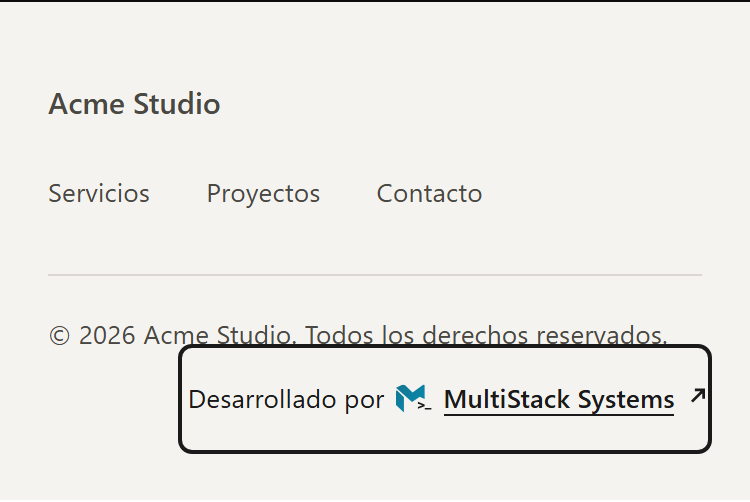
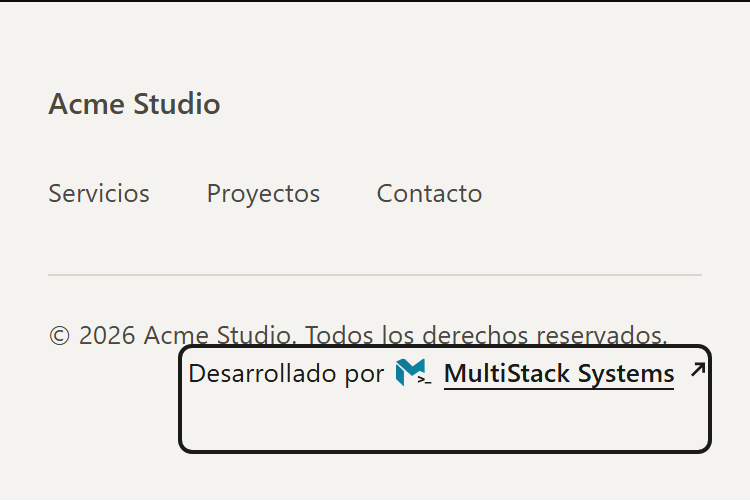
fix(standards): espacio en el texto del crédito y área de toque sin solapar el copyright (#53)
* fix(standards): add the missing space in the footer credit's link text

The visible gap came from the flex gap only, so the link's text content read
"Desarrollado porMultiStack Systems" (copy and paste, reader mode, anchor text).
The layout does not change: same box and same positions.

The test now checks the exact text content and that the accessible name starts
with it. The standard also notes that the touch padding adds height.

* fix(standards): keep the credit's tap area off the copyright and survive enlarged text

Three fixes found on the first site that carries the credit, verified there in
Chromium, Firefox and WebKit before going live:

- Touch: the 44px tap area now grows downwards only, so tapping the line above
  (the copyright) no longer opens the link.
- The isotype no longer makes the credit's line taller than a line of text.
- The standard now tells sites to switch between "beside" and "below" the
  copyright with a container query in ch. A breakpoint in px or em lets the
  credit run into its neighbour when the user sets a minimum font size, because
  the text grows and em does not.

Reference captures regenerated; browsers tested and the checklist updated.

---------

Changed region(s): [[0.2453, 0.7171, 0.9507, 0.8367], [0.92, 0.7171, 0.9507, 0.747]]

diff --git a/snippets/credito-multistack/credito.html b/snippets/credito-multistack/credito.html
@@ -49,7 +49,7 @@ body{margin:0;background:#fff;color:#1c1c1b;font:400 13px/1.45 system-ui,-apple-
         data-align="start|center|end" lo pone en su propia línea; sin data-align queda en línea donde lo coloques.
      Un solo crédito por página: los ids ms-credit-m y ms-credit-g son fijos. -->
 <a class="ms-credit" href="https://www.multistacksystems.com/?utm_source=acme&amp;utm_medium=referral&amp;utm_campaign=credito-footer" target="_blank" rel="noopener nofollow"
-   aria-label="Desarrollado por MultiStack Systems (se abre en una pestaña nueva)" data-align="start">Desarrollado por<svg viewBox="0 0 888.5 703.2" aria-hidden="true" focusable="false"><defs><linearGradient id="ms-credit-g" x2="1" y2="1"><stop/><stop offset="1"/></linearGradient><path id="ms-credit-m" d="m719.3 361.3-200.2-86.9.1-.1L718.5 64.6zM158.7 5.9Q171.6.2 185.1.2c16.4 0 32.6 6.3 44.8 18.2l269.8 263c9 8.8 9.8 23 1.8 32.7l-85.3 103.7c-8.8 10.6-24.6 11.8-34.9 2.6L0 77.5zm523.6-1.5Q688.8 0 695.7 0c11.8 0 22.8 9.3 22.8 22.8v200l-305 205.5c-7.9 5.3-18.4 4.6-25.5-1.7L261 312.2zM0 162.1c0-10 8.2-16.6 16.7-16.6 4 0 8.1 1.4 11.4 4.7l171.2 165.1v387.9L0 509.7v-68.1z"/></defs><use href="#ms-credit-m"/><use href="#ms-credit-m" fill="url(#ms-credit-g)"/><path d="M719.3 497.1v46L550.7 608v-45.6L666 520.3l-115.3-42.5v-45.9z"/><path class="ms-credit__cursor" d="M888.5 625.6H723.2v-38.3h165.3z"/></svg><b>MultiStack Systems</b><svg viewBox="0 0 8 8" aria-hidden="true" focusable="false"><path d="M1 7 7 1M2.5 1H7v4.5"/></svg></a>
+   aria-label="Desarrollado por MultiStack Systems (se abre en una pestaña nueva)" data-align="start">Desarrollado por <svg viewBox="0 0 888.5 703.2" aria-hidden="true" focusable="false"><defs><linearGradient id="ms-credit-g" x2="1" y2="1"><stop/><stop offset="1"/></linearGradient><path id="ms-credit-m" d="m719.3 361.3-200.2-86.9.1-.1L718.5 64.6zM158.7 5.9Q171.6.2 185.1.2c16.4 0 32.6 6.3 44.8 18.2l269.8 263c9 8.8 9.8 23 1.8 32.7l-85.3 103.7c-8.8 10.6-24.6 11.8-34.9 2.6L0 77.5zm523.6-1.5Q688.8 0 695.7 0c11.8 0 22.8 9.3 22.8 22.8v200l-305 205.5c-7.9 5.3-18.4 4.6-25.5-1.7L261 312.2zM0 162.1c0-10 8.2-16.6 16.7-16.6 4 0 8.1 1.4 11.4 4.7l171.2 165.1v387.9L0 509.7v-68.1z"/></defs><use href="#ms-credit-m"/><use href="#ms-credit-m" fill="url(#ms-credit-g)"/><path d="M719.3 497.1v46L550.7 608v-45.6L666 520.3l-115.3-42.5v-45.9z"/><path class="ms-credit__cursor" d="M888.5 625.6H723.2v-38.3h165.3z"/></svg><b>MultiStack Systems</b><svg viewBox="0 0 8 8" aria-hidden="true" focusable="false"><path d="M1 7 7 1M2.5 1H7v4.5"/></svg></a>
 <!-- ===== CRÉDITO MULTISTACK: FIN ===== -->
 </div>
 </div>
@@ -65,7 +65,7 @@ body{margin:0;background:#fff;color:#1c1c1b;font:400 13px/1.45 system-ui,-apple-
 <p>© 2026 Acme Studio. Todos los derechos reservados.</p>
 <!-- Mismo bloque con tono claro y alineado al final. Los ids llevan el sufijo -2 solo porque esta demo tiene dos créditos. -->
 <a class="ms-credit" href="https://www.multistacksystems.com/?utm_source=acme&amp;utm_medium=referral&amp;utm_campaign=credito-footer" target="_blank" rel="noopener nofollow"
-   aria-label="Desarrollado por MultiStack Systems (se abre en una pestaña nueva)" data-tone="light" data-align="end">Desarrollado por<svg viewBox="0 0 888.5 703.2" aria-hidden="true" focusable="false"><defs><linearGradient id="ms-credit-g-2" x2="1" y2="1"><stop/><stop offset="1"/></linearGradient><path id="ms-credit-m-2" d="m719.3 361.3-200.2-86.9.1-.1L718.5 64.6zM158.7 5.9Q171.6.2 185.1.2c16.4 0 32.6 6.3 44.8 18.2l269.8 263c9 8.8 9.8 23 1.8 32.7l-85.3 103.7c-8.8 10.6-24.6 11.8-34.9 2.6L0 77.5zm523.6-1.5Q688.8 0 695.7 0c11.8 0 22.8 9.3 22.8 22.8v200l-305 205.5c-7.9 5.3-18.4 4.6-25.5-1.7L261 312.2zM0 162.1c0-10 8.2-16.6 16.7-16.6 4 0 8.1 1.4 11.4 4.7l171.2 165.1v387.9L0 509.7v-68.1z"/></defs><use href="#ms-credit-m-2"/><use href="#ms-credit-m-2" fill="url(#ms-credit-g-2)"/><path d="M719.3 497.1v46L550.7 608v-45.6L666 520.3l-115.3-42.5v-45.9z"/><path class="ms-credit__cursor" d="M888.5 625.6H723.2v-38.3h165.3z"/></svg><b>MultiStack Systems</b><svg viewBox="0 0 8 8" aria-hidden="true" focusable="false"><path d="M1 7 7 1M2.5 1H7v4.5"/></svg></a>
+   aria-label="Desarrollado por MultiStack Systems (se abre en una pestaña nueva)" data-tone="light" data-align="end">Desarrollado por <svg viewBox="0 0 888.5 703.2" aria-hidden="true" focusable="false"><defs><linearGradient id="ms-credit-g-2" x2="1" y2="1"><stop/><stop offset="1"/></linearGradient><path id="ms-credit-m-2" d="m719.3 361.3-200.2-86.9.1-.1L718.5 64.6zM158.7 5.9Q171.6.2 185.1.2c16.4 0 32.6 6.3 44.8 18.2l269.8 263c9 8.8 9.8 23 1.8 32.7l-85.3 103.7c-8.8 10.6-24.6 11.8-34.9 2.6L0 77.5zm523.6-1.5Q688.8 0 695.7 0c11.8 0 22.8 9.3 22.8 22.8v200l-305 205.5c-7.9 5.3-18.4 4.6-25.5-1.7L261 312.2zM0 162.1c0-10 8.2-16.6 16.7-16.6 4 0 8.1 1.4 11.4 4.7l171.2 165.1v387.9L0 509.7v-68.1z"/></defs><use href="#ms-credit-m-2"/><use href="#ms-credit-m-2" fill="url(#ms-credit-g-2)"/><path d="M719.3 497.1v46L550.7 608v-45.6L666 520.3l-115.3-42.5v-45.9z"/><path class="ms-credit__cursor" d="M888.5 625.6H723.2v-38.3h165.3z"/></svg><b>MultiStack Systems</b><svg viewBox="0 0 8 8" aria-hidden="true" focusable="false"><path d="M1 7 7 1M2.5 1H7v4.5"/></svg></a>
 </div>
 </div>
 </footer>

diff --git a/snippets/credito-multistack/credito.css b/snippets/credito-multistack/credito.css
@@ -9,7 +9,8 @@ white-space:nowrap;opacity:var(--ms-credit-opacity,.7)}
 .ms-credit[data-align=center]{margin-inline:auto}
 .ms-credit[data-align=end]{margin-inline-start:auto}
 .ms-credit>svg{flex:none}
-.ms-credit>svg:first-of-type{font-size:var(--ms-credit-mark,14px);height:1em;width:1.2635em;transform:translateY(.165em);fill:currentColor}
+/* El margen negativo evita que el isotipo, más alto que el texto, agrande la línea: el crédito mide lo mismo que una línea de texto. */
+.ms-credit>svg:first-of-type{font-size:var(--ms-credit-mark,14px);height:1em;width:1.2635em;margin-top:-.3em;transform:translateY(.165em);fill:currentColor}
 .ms-credit>svg:last-of-type{width:.6em;height:.6em;fill:none;stroke:currentColor;stroke-width:1.4}
 .ms-credit b{font-weight:600;line-height:1.2;padding-bottom:.12em;margin-bottom:-.12em;
 background:linear-gradient(currentColor,currentColor) 0 100%/calc(100%*var(--ms-credit-s)) 1px no-repeat}
@@ -21,8 +22,9 @@ background:linear-gradient(currentColor,currentColor) 0 100%/calc(100%*var(--ms-
 /* Estado activo: --ms-credit-s pasa a 1 y las piezas internas reaccionan. */
 .ms-credit:focus-visible{outline:2px solid;outline-offset:3px;border-radius:2px;opacity:1;--ms-credit-s:1}
 @media (hover:hover) and (pointer:fine){.ms-credit:hover{opacity:1;--ms-credit-s:1}}
-/* Táctil: al menos 44px de alto sea cual sea el interlineado del sitio (13px es el valor para navegadores sin la unidad lh). */
-@media (pointer:coarse){.ms-credit{padding-block:13px;padding-block:max(13px,(44px - 1lh)/2)}}
+/* Táctil: al menos 44px de alto para tocar. El área crece solo hacia abajo, para no tapar la línea de arriba (el copyright).
+   26px es el valor para navegadores sin la unidad lh. */
+@media (pointer:coarse){.ms-credit{padding-bottom:26px;padding-bottom:max(26px,44px - 1lh)}}
 /* Con reduce quedan solo el color y la opacidad; el subrayado aparece de golpe. */
 @media (prefers-reduced-motion:reduce){.ms-credit b{transition:none}}
 @media (prefers-reduced-motion:no-preference){

diff --git a/snippets/credito-multistack/DevCredit.module.css b/snippets/credito-multistack/DevCredit.module.css
@@ -9,7 +9,8 @@ white-space:nowrap;opacity:var(--ms-credit-opacity,.7)}
 .credit[data-align=center]{margin-inline:auto}
 .credit[data-align=end]{margin-inline-start:auto}
 .credit>svg{flex:none}
-.credit>svg:first-of-type{font-size:var(--ms-credit-mark,14px);height:1em;width:1.2635em;transform:translateY(.165em);fill:currentColor}
+/* El margen negativo evita que el isotipo, más alto que el texto, agrande la línea: el crédito mide lo mismo que una línea de texto. */
+.credit>svg:first-of-type{font-size:var(--ms-credit-mark,14px);height:1em;width:1.2635em;margin-top:-.3em;transform:translateY(.165em);fill:currentColor}
 .credit>svg:last-of-type{width:.6em;height:.6em;fill:none;stroke:currentColor;stroke-width:1.4}
 .credit b{font-weight:600;line-height:1.2;padding-bottom:.12em;margin-bottom:-.12em;
 background:linear-gradient(currentColor,currentColor) 0 100%/calc(100%*var(--ms-credit-s)) 1px no-repeat}
@@ -21,8 +22,9 @@ background:linear-gradient(currentColor,currentColor) 0 100%/calc(100%*var(--ms-
 /* Estado activo: --ms-credit-s pasa a 1 y las piezas internas reaccionan. */
 .credit:focus-visible{outline:2px solid;outline-offset:3px;border-radius:2px;opacity:1;--ms-credit-s:1}
 @media (hover:hover) and (pointer:fine){.credit:hover{opacity:1;--ms-credit-s:1}}
-/* Táctil: al menos 44px de alto sea cual sea el interlineado del sitio (13px es el valor para navegadores sin la unidad lh). */
-@media (pointer:coarse){.credit{padding-block:13px;padding-block:max(13px,(44px - 1lh)/2)}}
+/* Táctil: al menos 44px de alto para tocar. El área crece solo hacia abajo, para no tapar la línea de arriba (el copyright).
+   26px es el valor para navegadores sin la unidad lh. */
+@media (pointer:coarse){.credit{padding-bottom:26px;padding-bottom:max(26px,44px - 1lh)}}
 /* Con reduce quedan solo el color y la opacidad; el subrayado aparece de golpe. */
 @media (prefers-reduced-motion:reduce){.credit b{transition:none}}
 @media (prefers-reduced-motion:no-preference){

diff --git a/src/test/dev-credit.test.tsx b/src/test/dev-credit.test.tsx
@@ -39,8 +39,10 @@ describe("DevCredit · enlace", () => {
 describe("DevCredit · accesibilidad", () => {
   it("el texto visible es solo la marca y abre el nombre accesible", () => {
     render(<DevCredit clientSlug="acme" />);
-    expect(link()).toHaveTextContent(/^Desarrollado por\s*MultiStack Systems$/);
-    expect(NAME.startsWith("Desarrollado por MultiStack Systems")).toBe(true);
+    // textContent, no toHaveTextContent: el espacio entre «por» y la marca tiene que existir en el DOM
+    // (es lo que se copia, lo que lee el modo lectura y el texto ancla del enlace).
+    expect(link().textContent).toBe("Desarrollado por MultiStack Systems");
+    expect(link().getAttribute("aria-label")?.startsWith(link().textContent ?? "")).toBe(true);
   });
 
   it("isotipo y flecha quedan ocultos a los lectores de pantalla y fuera del orden de foco", () => {

diff --git a/snippets/credito-multistack/DevCredit.tsx b/snippets/credito-multistack/DevCredit.tsx
@@ -26,7 +26,7 @@ export function DevCredit({ clientSlug, align, tone = 'auto', className }: DevCr
       data-align={align}
       data-tone={tone === 'auto' ? undefined : tone}
     >
-      Desarrollado por
+      Desarrollado por{' '}
       <svg viewBox="0 0 888.5 703.2" aria-hidden="true" focusable="false">
         <defs>
           <linearGradient id="ms-credit-g" x2="1" y2="1">

diff --git a/docs/standards/CREDITO-MULTISTACK.md b/docs/standards/CREDITO-MULTISTACK.md
@@ -67,6 +67,16 @@ En la barra inferior del footer, junto al copyright.
 
 Cuidado con las barras que reparten con `justify-content: space-between` o con grid: añadir un hijo, o ensanchar el primero, mueve a los demás. Ancla entonces el crédito al copyright fuera del flujo (así el copyright conserva su ancho) o bájalo a su propia línea sin ensanchar a ningún hermano. La técnica depende del footer; el criterio no.
 
+**Texto agrandado.** Decide «al lado o debajo» con una medida que siga el tamaño real del texto. Un punto de corte en px de ventana no sirve: con tamaño mínimo de fuente o con zoom solo de texto el crédito crece y se monta sobre lo que tenga al lado. Tampoco sirve `em`: con tamaño mínimo de fuente el texto se dibuja más grande y `em` no cambia (medido en Chromium y en Firefox). `ch` sí sigue al texto en los dos casos. El patrón es una container query sobre la barra, medida en `ch`:
+
+```css
+.pie__barra { container-type: inline-size; }
+/* Por defecto, el crédito va en su propia línea. Al lado, solo si la barra mide N ch o más. */
+@container (min-width: 156ch) { .pie__credito { /* al lado del copyright */ } }
+```
+
+N se mide en cada sitio: el ancho de la barra, en `ch`, desde el que el crédito cabe al lado con aire. Así, con el texto agrandado el crédito baja a su propia línea en vez de solaparse. Donde no hay container queries se queda en su propia línea, que es el caso seguro.
+
 Revisa también los selectores del cliente que alcanzan a cualquier enlace del pie (`footer a`, un `a::after` con subrayado, colores de hover, `position`): neutralízalos solo para el crédito, sin cambiarlos para los demás enlaces.
 
 ## 5. Diseño
@@ -75,7 +85,7 @@ Revisa también los selectores del cliente que alcanzan a cualquier enlace del p
 
 - Tipografía heredada (`font: inherit`) y tamaño igual al del copyright: el componente no fija tamaño, toma el del contenedor.
 - Color del texto del contenedor (o el de `tone`) con **opacidad 0,7** sobre todo el enlace. «MultiStack Systems» en peso 600.
-- Isotipo monocromo (`currentColor`) de **14 px** de alto; el ancho sale de su proporción (888,5 × 703,2). Ajuste óptico de 0,165 em hacia abajo para alinearlo con el texto.
+- Isotipo monocromo (`currentColor`) de **14 px** de alto; el ancho sale de su proporción (888,5 × 703,2). Ajuste óptico de 0,165 em hacia abajo para alinearlo con el texto. Un margen superior negativo evita que agrande la línea: el crédito mide lo mismo que una línea de texto.
 - Flecha ↗ de 0,6 em, trazo de 1,4 en `currentColor`. Separación entre piezas de 0,45 em; el enlace no se parte (`white-space: nowrap`).
 - Sin animación, badge, fondo, borde ni sombra.
 
@@ -124,7 +134,7 @@ Las políticas de spam de Google incluyen entre sus ejemplos de spam de enlaces 
 - **Nombre accesible:** `aria-label="Desarrollado por MultiStack Systems (se abre en una pestaña nueva)"`. Empieza por el texto visible y avisa de la pestaña nueva.
 - **SVG ocultos:** isotipo y flecha llevan `aria-hidden="true"` y `focusable="false"`, sin `<title>`.
 - **Foco visible:** en `:focus-visible` hay un contorno de 2 px, separado 3 px, con esquinas de 2 px y del color del texto (`currentColor`), a opacidad 1. No uses `outline: none`.
-- **Área de toque:** con `(pointer: coarse)` el enlace mide al menos 44 px de alto sin cambiar el tamaño del texto: el padding vertical es el mayor entre 13 px por lado y lo que falte para llegar a 44 px según el interlineado heredado (unidad `lh`). En navegadores sin `lh` se quedan los 13 px fijos, que con interlineados por debajo de 1,4 no llegan a 44. Comprueba el alto real y que no se solape con otro enlace.
+- **Área de toque:** con `(pointer: coarse)` el enlace mide al menos 44 px de alto sin cambiar el tamaño del texto. El área crece **solo hacia abajo** (`padding-bottom: max(26px, 44px - 1lh)`), para no tapar la línea de arriba: si el crédito va bajo el copyright, tocar el copyright no debe abrir el enlace. Ese padding añade alto en táctil; el sitio puede recuperar parte con un margen inferior negativo, siempre que el área de toque no llegue a otro enlace. Si debajo hay otro enlace y arriba hay sitio libre, redirige el padding con CSS del sitio. En navegadores sin la unidad `lh` quedan 26 px fijos, que no llegan a 44 si la línea heredada mide menos de 18 px. Compruébalo con `document.elementFromPoint` en varios puntos del copyright: el toque tiene que caer en el copyright, no en el enlace.
 - **Movimiento:** `prefers-reduced-motion` según la sección 5.
 - **Contraste:**
 
@@ -211,11 +221,11 @@ De los trazos del archivo maestro editable de la marca (privado), sin trazar nin
 
 ## 13. Límites conocidos
 
-- **Probado solo en Chromium.** Firefox y Safari están pendientes.
+- **Navegadores:** probado con Playwright en Chromium, Firefox y WebKit (el motor de Safari), sobre un sitio real: 29 anchos de 260 a 1920 px, puntero fino y táctil, tamaño mínimo de fuente de 16 px y zoom solo de texto al 150 % y al 200 %. No se ha probado en un Safari real ni en dispositivos. En WebKit no se pudieron activar el tamaño mínimo de fuente ni el zoom solo de texto.
 - **A 14 px en pantallas 1× el `>_` apenas se resuelve** (el `_` mide unos 3,3 × 0,8 px) y el parpadeo es discreto.
 - **Peso:** el componente solo (marcado y estilos) ocupa unos 1,45 KB en gzip. Medido en un sitio Next real, con sus reglas de ubicación, añadió unos 2,5 KB en gzip y unos 5,9 KB en crudo entre HTML y CSS. En crudo pesa más porque el marcado viaja dos veces: en el HTML y en el payload RSC.
 - **Área de toque:** los 44 px se garantizan con la unidad `lh`; en navegadores que no la soportan dependen del interlineado heredado (sección 8).
-- **Anillo de foco en táctil:** rodea el área de toque de 44 px, no solo el texto. Con un teclado conectado a un dispositivo táctil, el anillo puede rozar la línea de texto vecina si el crédito va pegado al copyright.
+- **Anillo de foco en táctil:** rodea el área de toque (el texto y el espacio de debajo), no solo el texto. Solo se ve con un teclado conectado a un dispositivo táctil.
 - **Idioma:** los textos están en español y no hay prop para cambiarlos. En un sitio en otro idioma hay que traducir a la vez «Desarrollado por» y el `aria-label`.
 - **Peso 600:** si la fuente del cliente no lo incluye, el navegador usará el más cercano disponible para «MultiStack Systems».
 
@@ -230,5 +240,6 @@ De los trazos del archivo maestro editable de la marca (privado), sin trazar nin
 - [ ] Teclado: Tab llega al crédito, el foco se ve y Enter abre el enlace correcto en pestaña nueva.
 - [ ] `prefers-reduced-motion: reduce`: solo cambia el color; sin desplazamiento, crecimiento ni parpadeo.
 - [ ] Se ve bien en 375, 768 y 1440 px; en móvil va en su propia línea.
-- [ ] En táctil el alto del enlace es de 44 px o más.
+- [ ] En táctil el alto del enlace es de 44 px o más, y tocar el copyright no abre el enlace.
+- [ ] Con tamaño mínimo de fuente de 16 px y con zoom solo de texto, el crédito no se monta sobre ningún otro elemento en ningún ancho.
 - [ ] Sin dependencias nuevas; tipos y build del sitio en verde.
